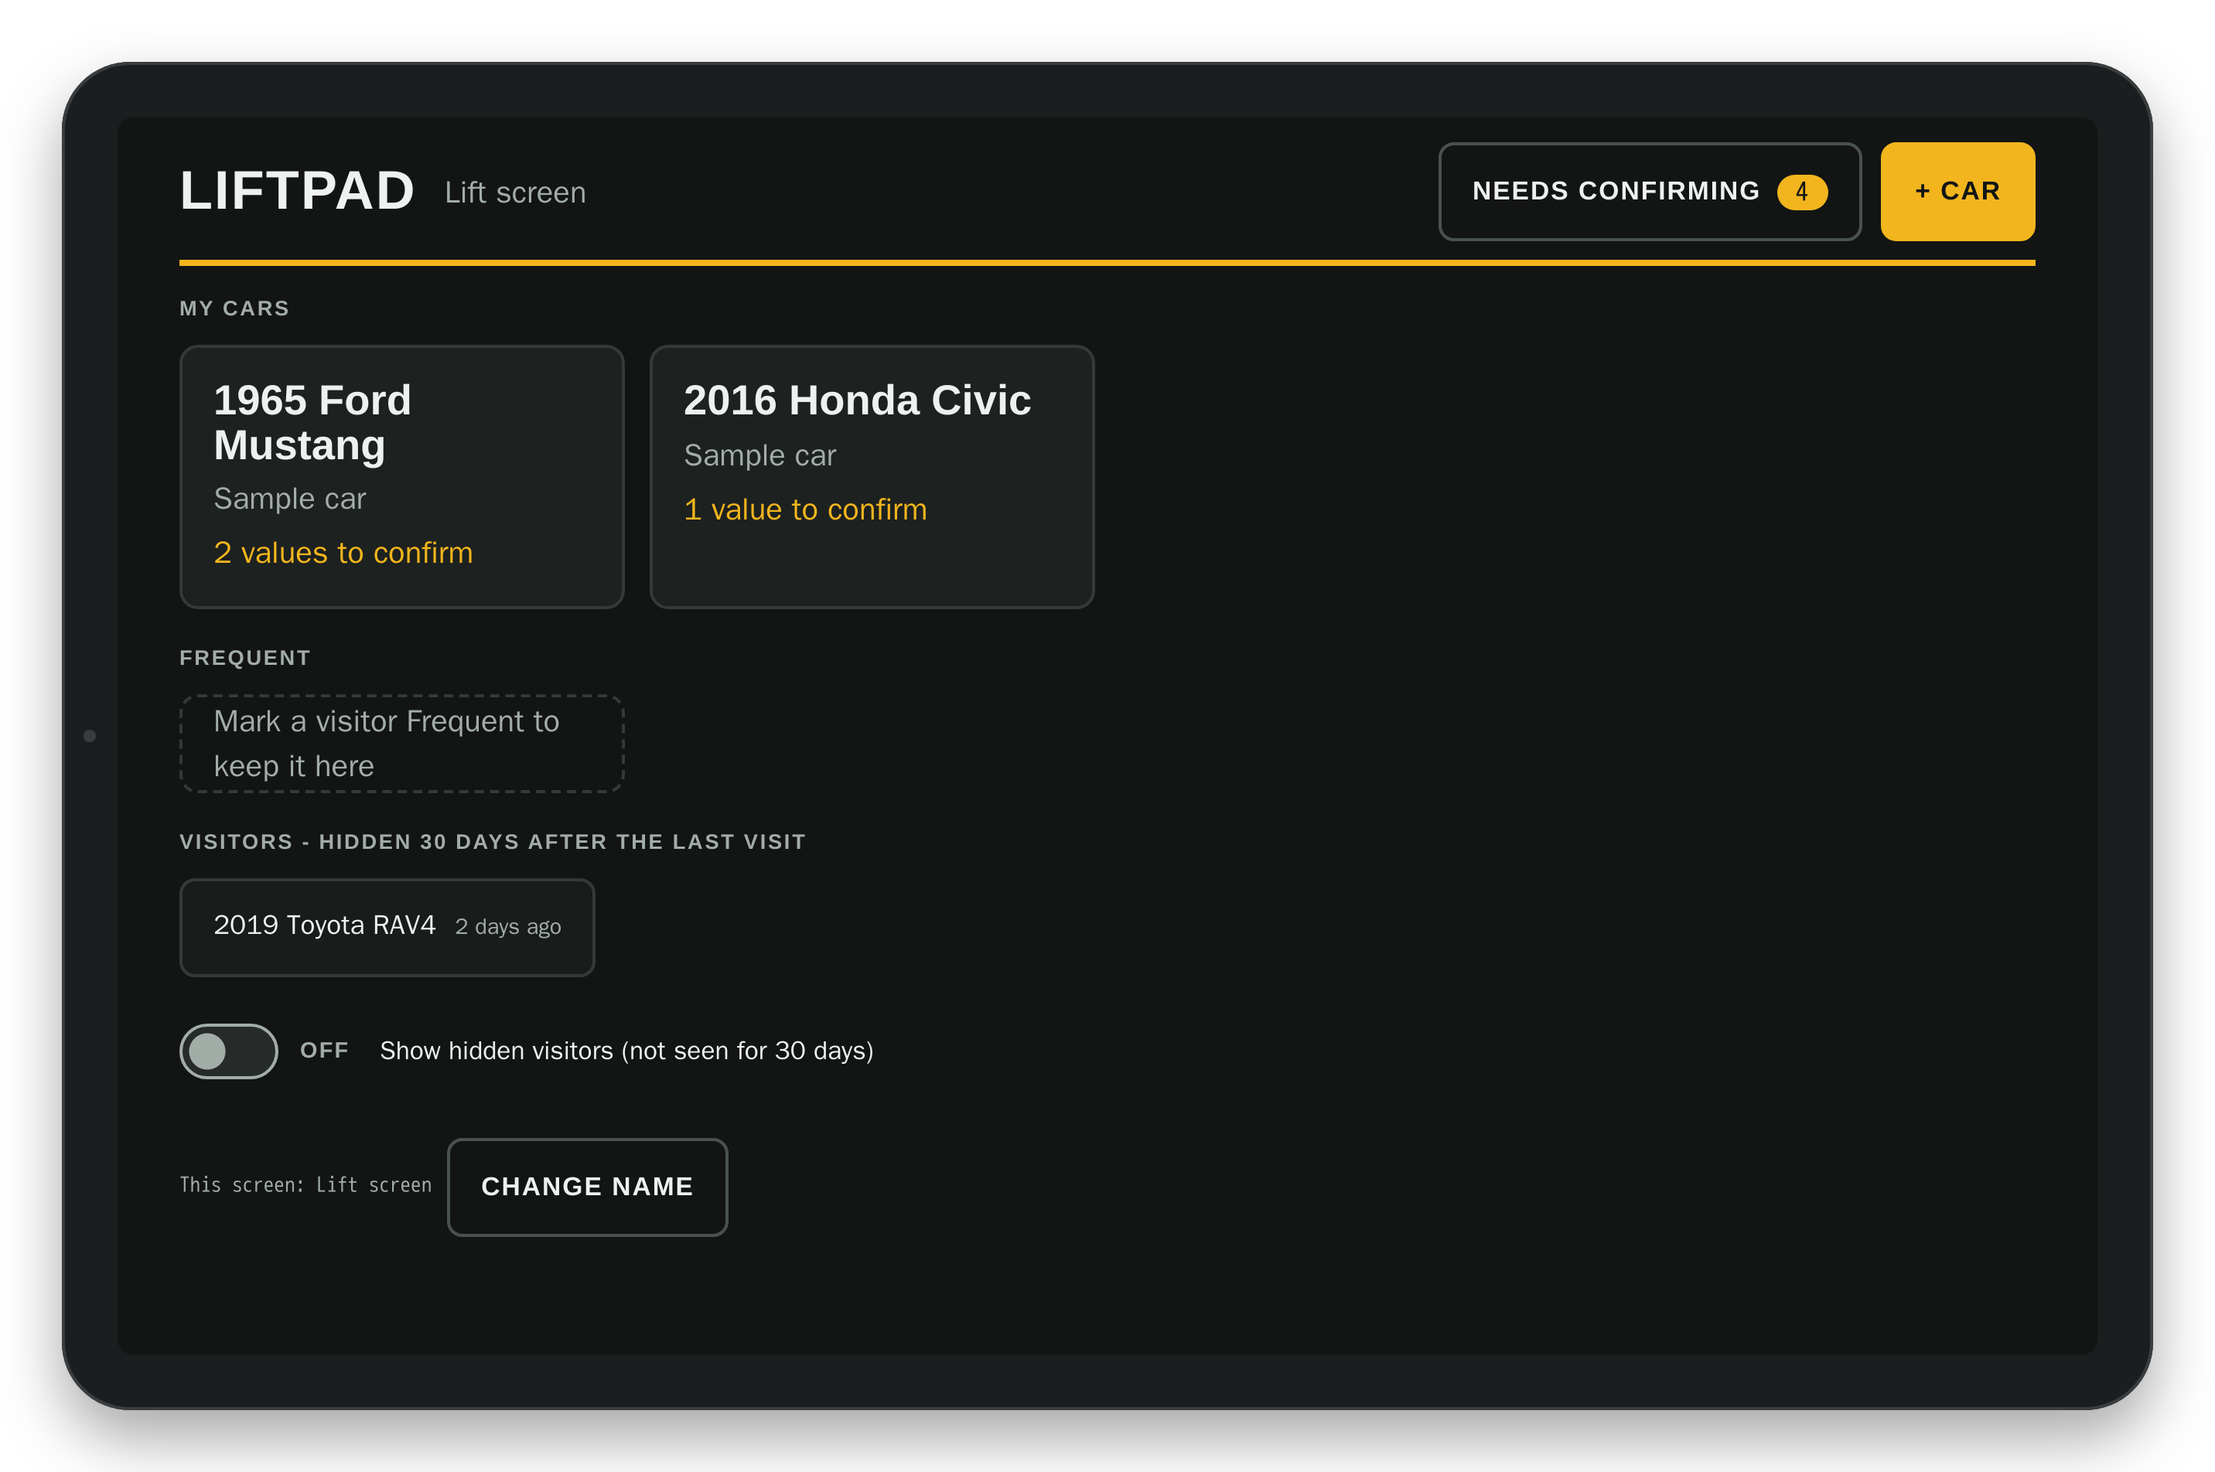
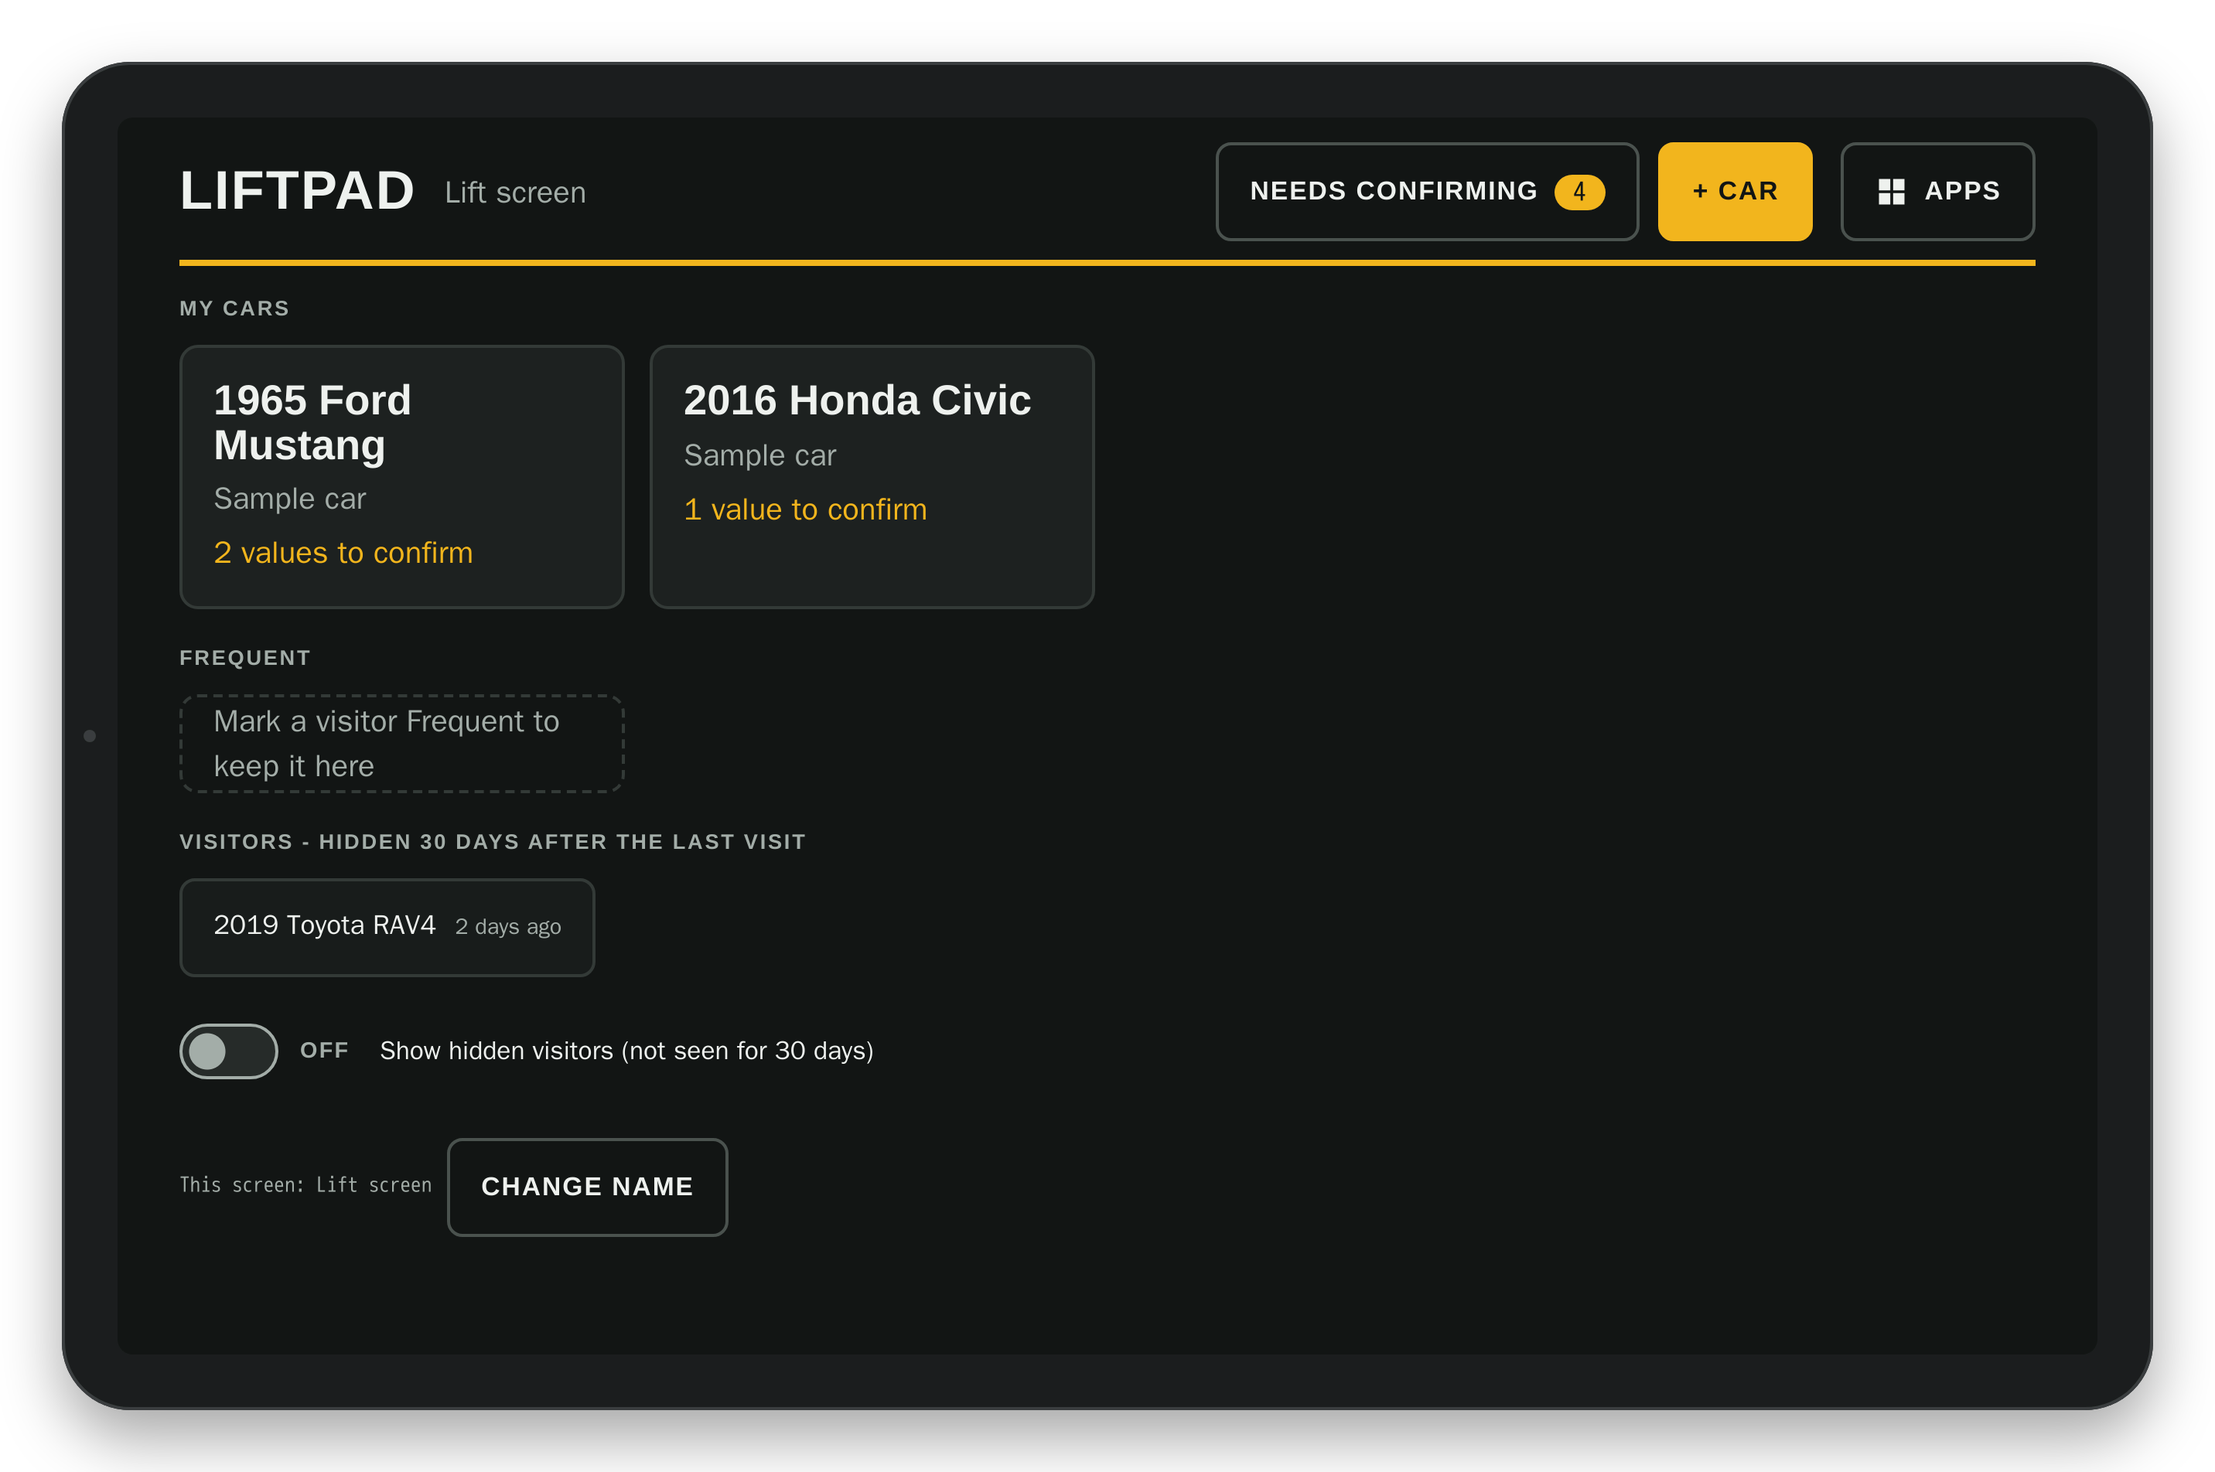
LiftPad 0.4.0 - Apps button and screen (shortcuts, same tab)
Exported by the gate from private commit 9ede145.

Changed region(s): [[0.5594, 0.093, 0.9323, 0.1859]]

diff --git a/test/selftest.js b/test/selftest.js
@@ -100,6 +100,27 @@ if (health.c > 0) {
 await t('bad year rejected', async () => { const { s } = await call('/api/models?make=Ford&year=19'); ok(s === 400, 'status ' + s); });
 await t('bad VIN rejected', async () => { const { s, d } = await call('/api/vin?vin=ABC'); ok(s === 400 && /17/.test(d.error), JSON.stringify(d)); });
 await t('tabs and fields come from the database', async () => { const { d } = await call('/api/tabs'); ok(['lift', 'torque', 'tires'].every(n => d.tabs.some(t2 => t2.name === n)) && d.fields.some(f => f.tab === 'torque' && f.name === 'Torque' && f.is_safety), JSON.stringify(d.tabs)); return `${d.tabs.length} tabs, ${d.fields.length} fields`; });
+// ---------- Apps screen (HANDOFF 6) ----------
+let apps = [];
+await t('apps: /api/apps answers with http(s) tiles, sorted by sort then name', async () => {
+  const { s, d } = await call('/api/apps'); ok(s === 200 && Array.isArray(d), `status ${s}: ${JSON.stringify(d)}`); apps = d;
+  ok(d.every(a => a.name && /^https?:\/\//.test(a.url) && Number.isInteger(a.sort)), JSON.stringify(d));
+  ok(d.every((a, i) => !i || d[i - 1].sort < a.sort || (d[i - 1].sort === a.sort && d[i - 1].name.localeCompare(a.name) <= 0)), 'not sorted: ' + d.map(a => a.name).join(', '));
+  return `${d.length} app(s)`;
+});
+// Your own rows come from LP_PRIVATE_TESTS (export const apps = [{ name, url }]); a public-seed
+// build (no classics rows) has the sample row.
+const wantApps = priv?.apps || (health.c > 0 ? null : [{ name: 'Sample app', url: 'https://example.com' }]);
+if (wantApps) await t('apps: the expected tiles are there with their exact address', async () => {
+  const miss = wantApps.filter(w => !apps.some(a => a.name === w.name && a.url === w.url)); ok(!miss.length, 'missing: ' + miss.map(w => w.name).join(', ')); return wantApps.map(w => w.name).join(', ');
+});
+else skip('apps: the expected tiles are there with their exact address', 'no LP_PRIVATE_TESTS apps list and not a public-seed build');
+if (hasProc) await t('apps: not for the processor (403)', async () => { const { s } = await call('/api/apps', { as: 'proc' }); ok(s === 403, 'status ' + s); });
+else skip('apps: not for the processor (403)', 'no processor token');
+await t('app page has the Apps button in the header', async () => {
+  const x = await (await fetch(BASE + '/', { headers: hdr('tool') })).text();
+  ok(/<header>[\s\S]*<a class="btn appsbtn" id="appsbtn" href="#\/apps">[\s\S]*Apps<\/a><\/header>/.test(x), 'no Apps button in the header of index.html');
+});
 // ---------- ALI page images (Handoff 3 step 1, decisions 3 and 4) ----------
 const pages = (await call('/api/ali/pages')).d || [];
 const okPages = Array.isArray(pages) ? pages.filter(x => x.status === 'ok') : [];
@@ -369,12 +390,18 @@ await t('Frequent queues a workup job for the missing fields', async () => {
 await t('a frequent car is never hidden', async () => { const c = (await call('/api/vehicles', { now: plus(400 * DAY) })).d.find(x => x.id === car); ok(c && !c.hidden, 'hidden'); });
 
 // ---------- cleanup ----------
+// Every step runs and every problem is listed, so one failed step (a network error, or no value id
+// because the value check failed) never leaves the temp car on live (it did on 2026-10-22, car 5).
 await t('cleanup: temp values (history kept) and temp car removed', async () => {
-  for (const [k, id] of cleanup.reverse()) if (k === 'val') { const s = (await call(`/api/values/${id}`, { method: 'DELETE' })).s; ok(s === 200 || s === 404, 'delete value ' + s); }
-    else if (k === 'photo') { const s = (await call(id, { method: 'DELETE' })).s; ok(s === 200, 'delete test photo ' + s); }
-    else if (k === 'box') ok((await call(`/api/ali/boxes?edition=${encodeURIComponent(id.edition)}&chart=${encodeURIComponent(id.chart)}`, { method: 'DELETE' })).s === 200, 'delete test box');
-  const h = (await call(`/api/values/${valId}/history`)).d; ok(h[h.length - 1].action === 'delete', 'no delete history row');
-  if (car) { ok((await call('/api/vehicles/' + car, { method: 'DELETE' })).s === 200, 'delete car'); ok((await call('/api/vehicles/' + car)).s === 404, 'car still there'); }
+  const bad2 = [], chk = (c, m) => { if (!c) bad2.push(m); };
+  const tc = async (p, o) => { try { return await call(p, o); } catch (e) { return { s: 'network error: ' + e.message, d: null }; } };
+  for (const [k, id] of cleanup.reverse()) if (k === 'val') { const s = (await tc(`/api/values/${id}`, { method: 'DELETE' })).s; chk(s === 200 || s === 404, 'delete value ' + s); }
+    else if (k === 'photo') { const s = (await tc(id, { method: 'DELETE' })).s; chk(s === 200, 'delete test photo ' + s); }
+    else if (k === 'box') { const s = (await tc(`/api/ali/boxes?edition=${encodeURIComponent(id.edition)}&chart=${encodeURIComponent(id.chart)}`, { method: 'DELETE' })).s; chk(s === 200, 'delete test box ' + s); }
+  if (valId) { const h = (await tc(`/api/values/${valId}/history`)).d; chk(Array.isArray(h) && h.length && h[h.length - 1].action === 'delete', 'no delete history row'); }
+  else chk(false, 'no value id (the value check failed): history not checked');
+  if (car) { const s = (await tc('/api/vehicles/' + car, { method: 'DELETE' })).s; chk(s === 200, 'delete car ' + s); chk((await tc('/api/vehicles/' + car)).s === 404, 'car still there'); }
+  ok(!bad2.length, bad2.join('; '));
 });
 if (srv) srv.close();
 

diff --git a/public/app.js b/public/app.js
@@ -1,4 +1,4 @@
-// LiftPad front end. Hash routes: #/  #/add  #/car/<id>  #/car/<id>/page (page viewer)  #/confirm
+// LiftPad front end. Hash routes: #/  #/add  #/car/<id>  #/car/<id>/page (page viewer)  #/confirm  #/apps
 const $ = s => document.querySelector(s);
 const esc = s => String(s ?? '').replace(/[&<>"]/g, c => ({ '&': '&amp;', '<': '&lt;', '>': '&gt;', '"': '&quot;' }[c]));
 // Device label (decision 7): picked once per browser, sent with every call, used in the history.
@@ -515,6 +515,25 @@ async function viewer(id) {
   if (box) toBox(box); else fitPage();
 }
 
+// ---------- Apps (HANDOFF 6) ----------
+// Tiles from /api/apps. A tile is a plain link without a target, so it opens in the same tab and
+// Fully Kiosk stays on one page. Only http(s) addresses become links. Icons are drawn here.
+const ICONS = {
+  apps: '<path d="M3 3h8v8H3zM13 3h8v8h-8zM3 13h8v8H3zM13 13h8v8h-8z"/>',
+  cctv: '<path d="M2 6.5l15-3 1.5 6-15 3zM16 12.5l-1.5 2.5H9v4H6v2H3v-7h3v2h1.5l1-2.5z"/><path d="M19 6l3-1v5l-3 1z"/>' };
+const appIcon = n => `<svg aria-hidden="true" viewBox="0 0 24 24">${ICONS[n] || ICONS.apps}</svg>`;
+let appsBack = '#/', appsTab = null;   // Back on the Apps screen: the screen (and car tab) it came from
+async function appsPage() {
+  const live = fresh();
+  const list = await api('/apps');
+  if (!live()) return;
+  crumb('Apps');
+  const tiles = list.filter(a => /^https?:\/\//i.test(a.url))
+    .map(a => `<a class="carbtn apptile" href="${esc(a.url)}">${appIcon(a.icon)}<b>${esc(a.name)}</b></a>`).join('');
+  $('#view').innerHTML = `<div class="carhead"><a class="btn" href="${esc(appsBack)}">Back</a><h2>Apps</h2></div>
+    ${tiles ? `<div class="apps">${tiles}</div>` : '<div class="empty">No apps yet.</div>'}`;
+}
+
 // ---------- Router ----------
 async function route() {
   const h = location.hash || '#/';
@@ -524,6 +543,7 @@ async function route() {
     if (!device) pickDevice();
     else if (h === '#/add') add();
     else if (h === '#/confirm') await confirmPage();
+    else if (h === '#/apps') await appsPage();
     else if (/^#\/car\/\d+\/page$/.test(h)) await viewer(h.split('/')[2]);
     else if (/^#\/car\/\d+\/jamb$/.test(h)) await jamb(h.split('/')[2]);
     else if (/^#\/car\/\d+\/jamb\/[0-9TZ-]+\.(jpg|png|webp)$/.test(h)) await jambRead(h.split('/')[2], h.split('/')[4]);
@@ -532,6 +552,11 @@ async function route() {
   } catch (e) { fail(e); }
 }
 let nextTab = null;   // a screen that sends Rick back to a car can name the tab to open
-addEventListener('hashchange', () => { tab = nextTab || 'lift'; nextTab = null; route(); });
+addEventListener('hashchange', e => {
+  const from = new URL(e.oldURL).hash || '#/', to = location.hash || '#/';
+  if (to === '#/apps' && from !== '#/apps') { appsBack = from; appsTab = tab; }   // remember where Apps was opened
+  else if (from === '#/apps' && to === appsBack && appsTab) nextTab = appsTab;     // Back opens the same car tab
+  tab = nextTab || 'lift'; nextTab = null; route();
+});
 route();
 if ('serviceWorker' in navigator) navigator.serviceWorker.register('/sw.js').catch(() => {});

diff --git a/public/app.css b/public/app.css
@@ -26,6 +26,15 @@ header{display:flex;align-items:center;gap:12px 18px;flex-wrap:wrap;border-botto
 header h1{font:700 2.2rem/1 var(--display);letter-spacing:.03em;text-transform:uppercase;margin:0}
 header .sub{color:var(--muted)}
 .hnav{margin-left:auto;display:flex;gap:12px;flex-wrap:wrap}
+/* HANDOFF 6: the Apps button (header, every screen) and the Apps screen tiles */
+.appsbtn{gap:10px;padding:0 16px}
+.appsbtn svg{width:22px;height:22px;fill:currentColor;flex:none}
+.apps{display:grid;grid-template-columns:repeat(auto-fill,minmax(240px,1fr));gap:16px;margin-top:20px}
+.apptile{justify-items:center;align-content:center;text-align:center;min-height:180px}
+.apptile svg{width:64px;height:64px;fill:var(--accent)}
+/* Phone: Apps on the first line beside the name, the screen name under it, then the screen's own
+   buttons (the Apps button must not take a row of its own) */
+@media (max-width:560px){.appsbtn{order:1;margin-left:auto}header .sub{order:2;flex-basis:100%}.hnav{order:3}}
 .count{display:inline-block;background:var(--accent);color:var(--accent-ink);border-radius:99px;padding:0 12px;margin-left:10px;font-family:var(--mono)}
 .net{font:600 .85rem var(--display);letter-spacing:.06em;text-transform:uppercase;color:var(--warn)}
 h2{font:700 1.9rem/1.1 var(--display);margin:0;text-wrap:balance}

diff --git a/src/worker.js b/src/worker.js
@@ -313,6 +313,12 @@ export default {
           engine, fuel: d.FuelTypePrimary || '', electrification: d.ElectrificationLevel || '', ev, error: d.ErrorCode !== '0' ? d.ErrorText : '' });
       }
       if (p === '/api/tabs' && m === 'GET') return json(await tabsFields(env));
+      // HANDOFF 6: the Apps screen tiles (rows from private-data/apps.csv), read only. Not for the
+      // processor: a URL can be a LAN address.
+      if (p === '/api/apps' && m === 'GET') {
+        if (me.processor) return bad('Apps are not for the processor', 403);
+        return json((await env.DB.prepare('SELECT id, name, url, icon, sort FROM apps ORDER BY sort, name, id').all()).results);
+      }
       // Decision 8: lookup links for one car (built, never fetched).
       if (p === '/api/links' && m === 'GET') {
         const q = k => url.searchParams.get(k) || '';

diff --git a/public/index.html b/public/index.html
@@ -12,7 +12,7 @@
 </head>
 <body>
 <div class="wrap">
-  <header><a href="#/" class="brand"><h1>LiftPad</h1></a><span class="sub" id="crumb"></span><span id="net" class="net" hidden>Offline - showing saved data</span><nav class="hnav" id="hnav" aria-label="Main"></nav></header>
+  <header><a href="#/" class="brand"><h1>LiftPad</h1></a><span class="sub" id="crumb"></span><span id="net" class="net" hidden>Offline - showing saved data</span><nav class="hnav" id="hnav" aria-label="Main"></nav><a class="btn appsbtn" id="appsbtn" href="#/apps"><svg aria-hidden="true" viewBox="0 0 24 24"><path d="M3 3h8v8H3zM13 3h8v8h-8zM3 13h8v8H3zM13 13h8v8h-8z"/></svg>Apps</a></header>
   <main id="view" aria-live="polite"></main>
 </div>
 <script src="/app.js"></script>

diff --git a/tools/make_seed.py b/tools/make_seed.py
@@ -1,9 +1,9 @@
 """Build the LiftPad seed files.
 
 Run:     python3 tools/make_seed.py PRIVATE_DIR
-Reads:   PRIVATE_DIR/ali-index.csv, PRIVATE_DIR/classics.csv, PRIVATE_DIR/my-cars.csv
-         (each is optional; a missing file is skipped and reported)
-Writes:  db/seed-public.sql        makes list + 2 example cars. Safe for git. Example cars must
+Reads:   PRIVATE_DIR/ali-index.csv, PRIVATE_DIR/classics.csv, PRIVATE_DIR/my-cars.csv,
+         PRIVATE_DIR/apps.csv (each is optional; a missing file is skipped and reported)
+Writes:  db/seed-public.sql        makes list + 1 sample app + 2 example cars. Safe for git. Example cars must
                                    not look like a lift-guide chart code (two letters, dash, digit).
          PRIVATE_DIR/seed-private.sql   makes + lift-guide index + classics + your cars.
                                        Never put this file in git.
@@ -33,6 +33,15 @@ def app_lines():
     out = [f"INSERT OR IGNORE INTO tabs(name,label,sort) VALUES({q(n)},{q(lb)},{s});" for n, lb, s in APP_TABS]
     out += [f"INSERT OR IGNORE INTO fields(tab_id,name,unit,sort,is_safety) SELECT id,{q(n)},'{u}',{s},{k} FROM tabs WHERE name={q(t)};" for t, n, u, s, k in APP_FIELDS]
     return out
+
+
+# Apps screen tiles (HANDOFF 6, migration 0006). The public seed has one sample row; the private
+# seed has PRIVATE_DIR/apps.csv (name,url,icon,sort), whose URLs can be LAN addresses.
+SAMPLE_APPS = [{'name': 'Sample app', 'url': 'https://example.com', 'icon': 'apps', 'sort': '10'}]
+
+
+def apps_lines(rows):
+    return [f"INSERT INTO apps(name,url,icon,sort) VALUES({q(r['name'])},{q(r['url'])},{q(r['icon'] or 'apps')},{int(r['sort'])});" for r in rows]
 
 
 EXAMPLE_CARS = [
@@ -128,8 +137,9 @@ def main():
     classics = [f"INSERT INTO classics(make,model,year_from,year_to,model_years,years_src) VALUES({q(r['make'])},{q(r['model'])},{q(r['year_from']) if r['year_from'] is not None else 'NULL'},{q(r['year_to']) if r['year_to'] is not None else 'NULL'},{r['model_years']},{q(r['years_src'])});" for r in c]
     make_lines = [f"INSERT INTO makes(name,aliases,nhtsa_name) VALUES({q(n)},{q(m['aliases'])},{q(m['nhtsa_name'])});" for n, m in sorted(makes.items())]
 
-    public = make_lines + app_lines() + car_lines(EXAMPLE_CARS)
-    private = guide + classics + make_lines + app_lines() + car_lines(my_cars(read_csv(os.path.join(priv, 'my-cars.csv'))))
+    public = make_lines + app_lines() + apps_lines(SAMPLE_APPS) + car_lines(EXAMPLE_CARS)
+    private = (guide + classics + make_lines + app_lines() + apps_lines(read_csv(os.path.join(priv, 'apps.csv')))
+               + car_lines(my_cars(read_csv(os.path.join(priv, 'my-cars.csv')))))
     with open(os.path.join(DB, 'seed-public.sql'), 'w', encoding='utf-8') as f:
         f.write('\n'.join(public) + '\n')
     with open(os.path.join(priv, 'seed-private.sql'), 'w', encoding='utf-8') as f:
